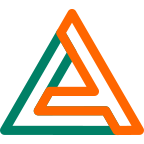
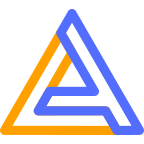
polymer theme

diff --git a/client/src/shared-styles.html b/client/src/shared-styles.html
@@ -3,17 +3,20 @@
 <dom-module id="shared-styles">
   <template>
     <style include="iron-flex iron-flex-alignment">
-       :root {
-        --primary-text-color: #212121;
-        --primary-background-color: #fff;
-        --secondary-text-color: #53596d;
-        --disabled-text-color: #9b9b9b;
-        --divider-color: #bdbdbd;
-        --error-color: #dc2128;
-        --dark-primary-color: #004d3d;
-        --primary-color: #008066;
-        --light-primary-color: #00b38f;
-        --accent-color: #ff6600;
+      /*amber/indigo*/
+      :root {
+        --dark-primary-color:       #FFA000;
+        --default-primary-color:    #FFC107;
+        --light-primary-color:      #FFECB3;
+        --text-primary-color:       #212121;
+        --accent-color:             #536DFE;
+        --primary-background-color: #FFECB3;
+        --primary-text-color:       #212121;
+        --secondary-text-color:     #757575;
+        --disabled-text-color:      #BDBDBD;
+        --divider-color:            #BDBDBD;
+
+        --error-color:              #dc2128;
       }
       ::-webkit-scrollbar {
         display: none;
@@ -24,8 +27,11 @@
       *:focus {
         outline: none;
       }
+      body {
+        background-color: var(--primary-background-color);
+      }
       a {
-        color: var(--dark-primary-color);
+        color: var(--accent-color);
       }
       app-drawer {
         --app-drawer-width: 250px;
@@ -38,21 +44,23 @@
         }
       }
       app-header {
-        background-color: var(--primary-background-color);
+        color: var(--text-primary-color);
+        background-color: var(--default-primary-color);
       }
       app-drawer app-header {
-        height: 128px;
+        height: 200px;
+        background-color: transparent;
         background-image: url(../images/logo.svg);
-        background-position: center 0;
+        background-position: center 25px;
         background-repeat: no-repeat;
-        background-size: 128px auto;
+        background-size: 150px auto;
       }
       app-toolbar {
-        color: var(--primary-text-color);
+        color: var(--text-primary-color);
       }
       paper-listbox a, paper-listbox paper-item {
         height: 54px;
-        color: var(--primary-color);
+        color: var(--primary-text-color);
         cursor: pointer;
         text-decoration: none;
       }
@@ -64,7 +72,7 @@
       }
       app-toolbar a {
         display: inline-block;
-        color: var(--primary-text-color);
+        color: inherit;
         text-decoration: none;
         text-transform: lowercase;
       }
@@ -92,16 +100,16 @@
         }
       }
       paper-button {
-        color: var(--primary-background-color);
-        background-color: var(--primary-color);
+        color: var(--text-primary-color);
+        background-color: var(--dark-primary-color);
         text-transform: lowercase;
       }
       paper-icon-button {
-        color: var(--primary-color);
+        color: var(--text-primary-color);
       }
       paper-fab,
       paper-button.accent {
-        color: var(--primary-background-color);
+        color: var(--primary-text-color);
         background-color: var(--accent-color);
       }
       paper-dialog paper-button {
@@ -109,10 +117,16 @@
         background-color: var(--divider-color);
         text-transform: lowercase;
       }
-      paper-input {
+      paper-input,
+      vaadin-combo-box,
+      paper-input-autocomplete-chips {
         --paper-input-container-color: var(--primary-text-color);
         --paper-input-container-focus-color: var(--accent-color);
         --paper-input-container-invalid-color: var(--error-color);
+      }
+      paper-toast {
+        --paper-toast-color: var(--text-primary-color);
+        --paper-toast-background-color: var(--default-primary-color);
       }
       paper-spinner {
         width: 100px;

diff --git a/client/src/app-shell.html b/client/src/app-shell.html
@@ -135,7 +135,7 @@
             <paper-item><iron-icon icon="app:settings"></iron-icon> Admin</paper-item></a>
         </paper-listbox>
 
-        <paper-listbox hidden$="[[!_isDetailView(dataView.view)]]" class="accent">
+        <paper-listbox hidden$="[[!_isDetailView(dataView.view)]]">
           <paper-item hidden$="[[!isAdmin]]" on-tap="editRecord">
             <iron-icon icon="app:create"></iron-icon> Edit</paper-item>
           <!--<paper-item hidden$="[[!_isKindPhoto(itemKind)]]" on-tap="zoomPhoto">
@@ -144,7 +144,7 @@
       </app-drawer>
 
       <app-header-layout>
-        <app-header reveals condenses>
+        <app-header reveals condenses shadow>
           <app-toolbar></app-toolbar>
           <app-toolbar>
             <paper-icon-button icon="app:menu" drawer-toggle></paper-icon-button>
@@ -227,7 +227,7 @@
         // 'pathChanged(route.path)'
       ],
       properties: {
-        version: { type: String, value: '201705061209' },
+        version: { type: String, value: '201705062115' },
         loading: { type: Boolean, value: false, notify: true },
         dataValue: { type: Object, value: { value: null } }, // initial set value to null, otherwise search won't work
         user: { type: Object, notify: true },

diff --git a/client/src/item-view.html b/client/src/item-view.html
@@ -49,9 +49,6 @@
         /*<svg xmlns="http://www.w3.org/2000/svg" width="60px" height="80px" viewBox="0 0 50 80" xml:space="preserve"><polyline fill="none" stroke="#FFFFFF" stroke-width="2" stroke-linecap="round" stroke-linejoin="round" points="0.375,0.375 45.63,38.087 0.375,75.8 "/></svg>*/
[1 lines of base64/hex data omitted]
       }
-      .markdown-html * {
-        font-family: 'Roboto', 'Noto', sans-serif;
-      }
       .markdown-html img {
         max-width: 100%;
       }
@@ -59,9 +56,6 @@
       .markdown-html h3,
       .markdown-html strong {
         font-weight: 500;
-      }
-      .markdown-html a {
-        color: var(--primary-color);
       }
       /*.markdown-html img[alt='Milan D. Andrejevic'] {
       }*/

diff --git a/client/src/item-edit.html b/client/src/item-edit.html
@@ -21,12 +21,6 @@
       paper-button {
         margin-top: 8px;
       }
-      paper-input,
-      vaadin-combo-box,
-      paper-input-autocomplete-chips {
-        --paper-input-container-color: var(--primary-text-color);
-        --paper-input-container-focus-color: var(--primary-color);
-      }
     </style>
 
     <iron-ajax id="xhr"
@@ -49,11 +43,11 @@
 
       <div class="layout horizontal justified">
         <template is="dom-if" if="[[isAdmin]]">
-          <paper-button on-tap="_remove" class="accent" raised>Remove</paper-button>
+          <paper-button on-tap="_remove" raised>Remove</paper-button>
         </template>
         <div>
-          <paper-button on-tap="_viewDisplay" raised>Cancel</paper-button>
-          <paper-button on-tap="_submit" class="accent" raised>Submit</paper-button>
+          <paper-button on-tap="_viewDisplay" class="accent" raised>Cancel</paper-button>
+          <paper-button on-tap="_submit" raised>Submit</paper-button>
         </div>
       </div>
 

diff --git a/client/index.html b/client/index.html
@@ -7,7 +7,7 @@
   <title>ANDрејевићи</title>
   <meta name="description" content="">
   <link rel="icon" href="/images/favicon.ico">
-  <meta name="theme-color" content="#404040">
+  <meta name="theme-color" content="#FFECB3">
   <link rel="manifest" href="/manifest.json">
 
   <meta name="mobile-web-app-capable" content="yes">
@@ -26,7 +26,7 @@
   <link rel="apple-touch-icon" sizes="512x512" href="/images/manifest/icon-512x512.png">
 
   <meta name="msapplication-TileImage" content="/images/manifest/icon-144x144.png">
-  <meta name="msapplication-TileColor" content="#fff">
+  <meta name="msapplication-TileColor" content="#212121">
   <meta name="msapplication-tap-highlight" content="no">
 
   <script src="/node_modules/redux/dist/redux.min.js"></script>
@@ -93,7 +93,6 @@
       padding: 0;
       font-family: 'Roboto', 'Noto', sans-serif;
       line-height: 1.5;
-      background-color: #fff;
     }
 
     ::-webkit-scrollbar {

diff --git a/client/src/form-view.html b/client/src/form-view.html
@@ -31,8 +31,8 @@
       paper-input,
       vaadin-combo-box,
       paper-input-autocomplete-chips {
-        --paper-input-container-color: var(--primary-text-color);
-        --paper-input-container-focus-color: var(--primary-color);
+        --paper-input-container-color: var(--text-primary-color);
+        --paper-input-container-focus-color: var(--default-primary-color);
       }
     </style>
 

diff --git a/client/src/app-search.html b/client/src/app-search.html
@@ -13,12 +13,10 @@
       }
       paper-input {
         width: 100%;
-        --paper-input-container-input-color: var(--dark-primary-color);
-        --paper-input-container-focus-color: var(--primary-color);
       }
       iron-icon {
         margin: 10px 10px 0 0;
-        color: var(--primary-color);
+        color: var(--primary-text-color);
       }
     </style>
 

diff --git a/client/src/admin-shell.html b/client/src/admin-shell.html
@@ -19,10 +19,6 @@
         margin-bottom: 0.5em;
         font-weight: 300;
       }
-      paper-toast {
-        --paper-toast-color: var(--primary-background-color);
-        --paper-toast-background-color: var(--primary-text-color);
-      }
       paper-button {
         width: 150px;
         margin: 0 16px 16px 0;
